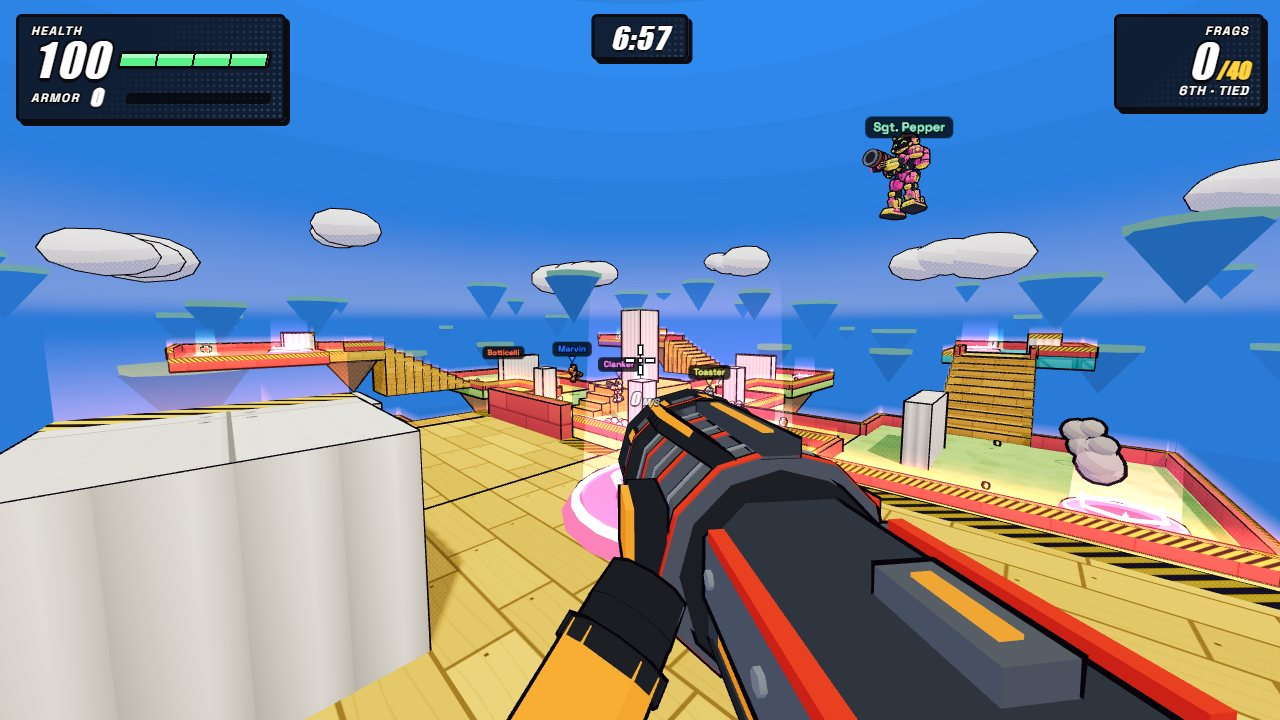
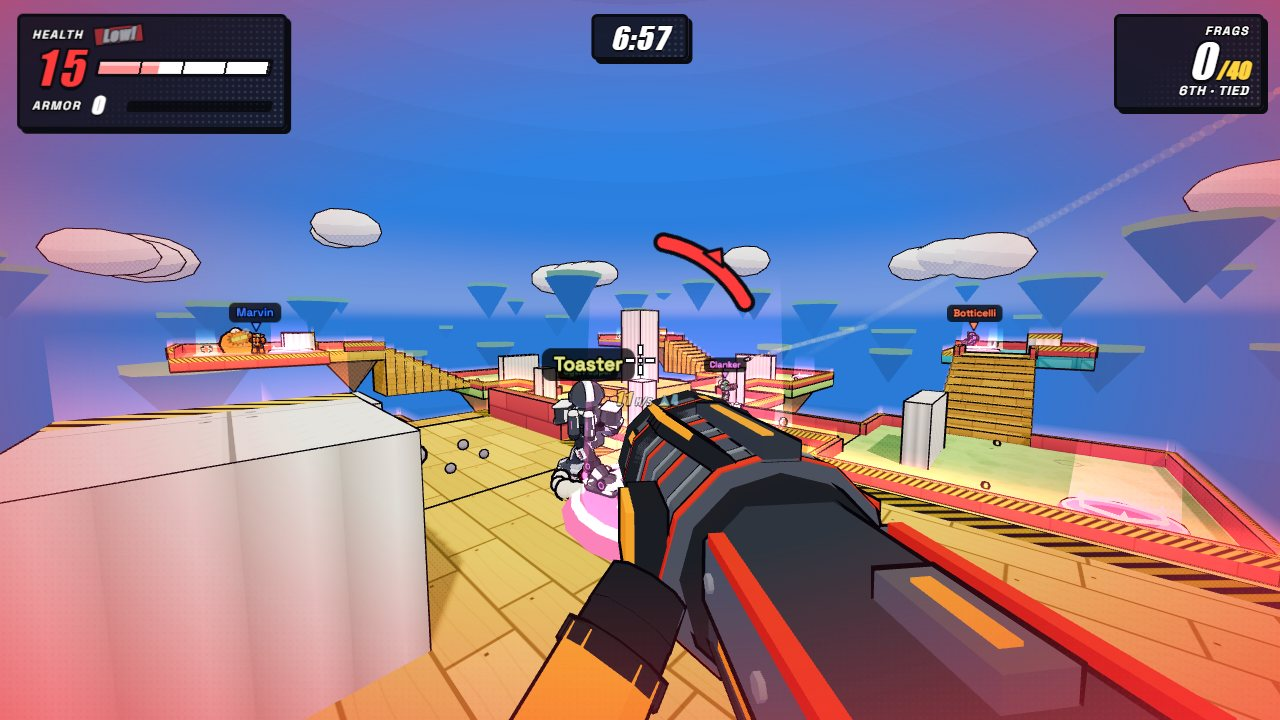
play: Rockets Foundry: a stronger, warmer dusk sun over cooler violet shade

diff --git a/play/frontend/src/games/rockets/arenaDecor.ts b/play/frontend/src/games/rockets/arenaDecor.ts
@@ -60,7 +60,7 @@ const THEMES: Record<string, Theme> = {
     dusk: true,
     neon: true,
     sun: [0.62, 0.2, -0.76],
-    light: { sky: 0xb4a2ff, ground: 0x6a3a68, hemi: 1.7, sun: 0xffa874, sunI: 2.5 },
+    light: { sky: 0x9a8cff, ground: 0x4a2c5c, hemi: 1.35, sun: 0xffa060, sunI: 3.2 },
   },
   skyway: { surfaces: { floor: s('turf', 'strata'), platform: s('planks'), stair: s('planks') }, props: [], skyline: 'islands', under: 'rocks' },
   canyon: {
